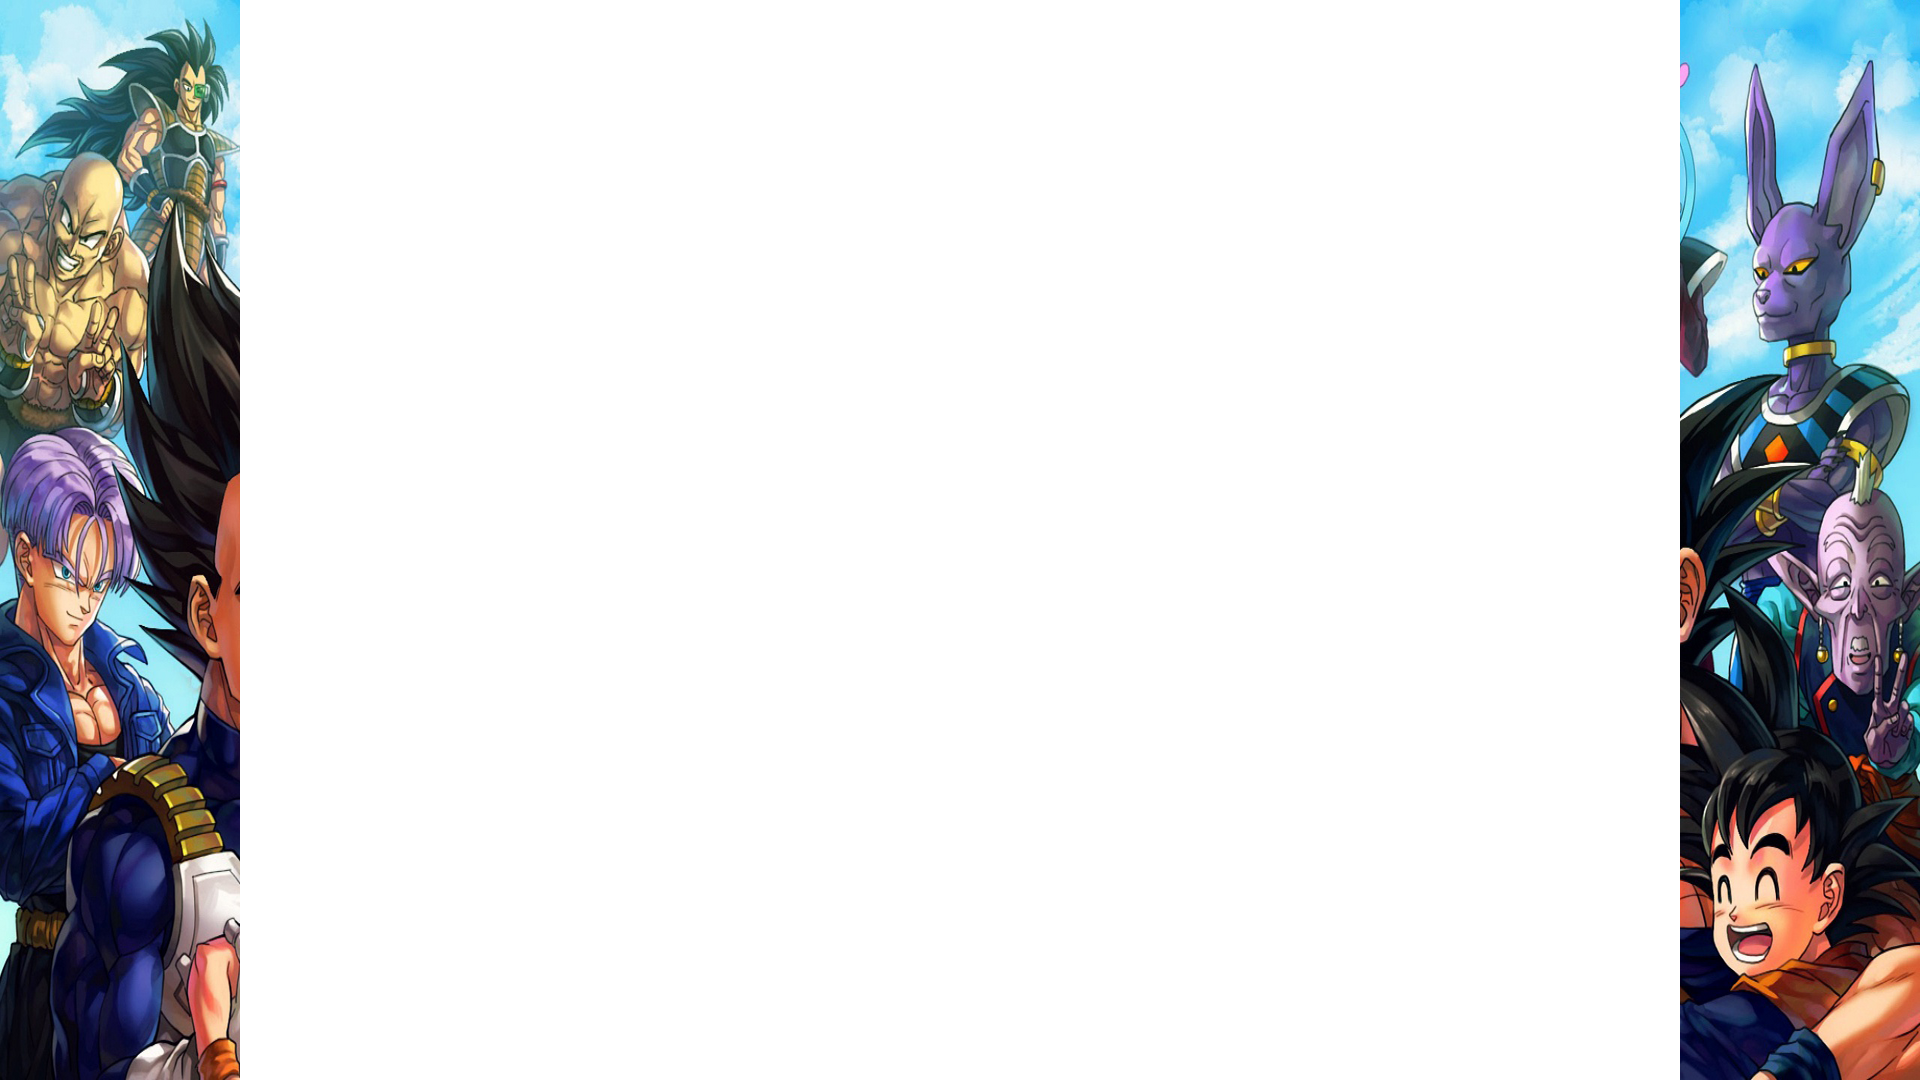
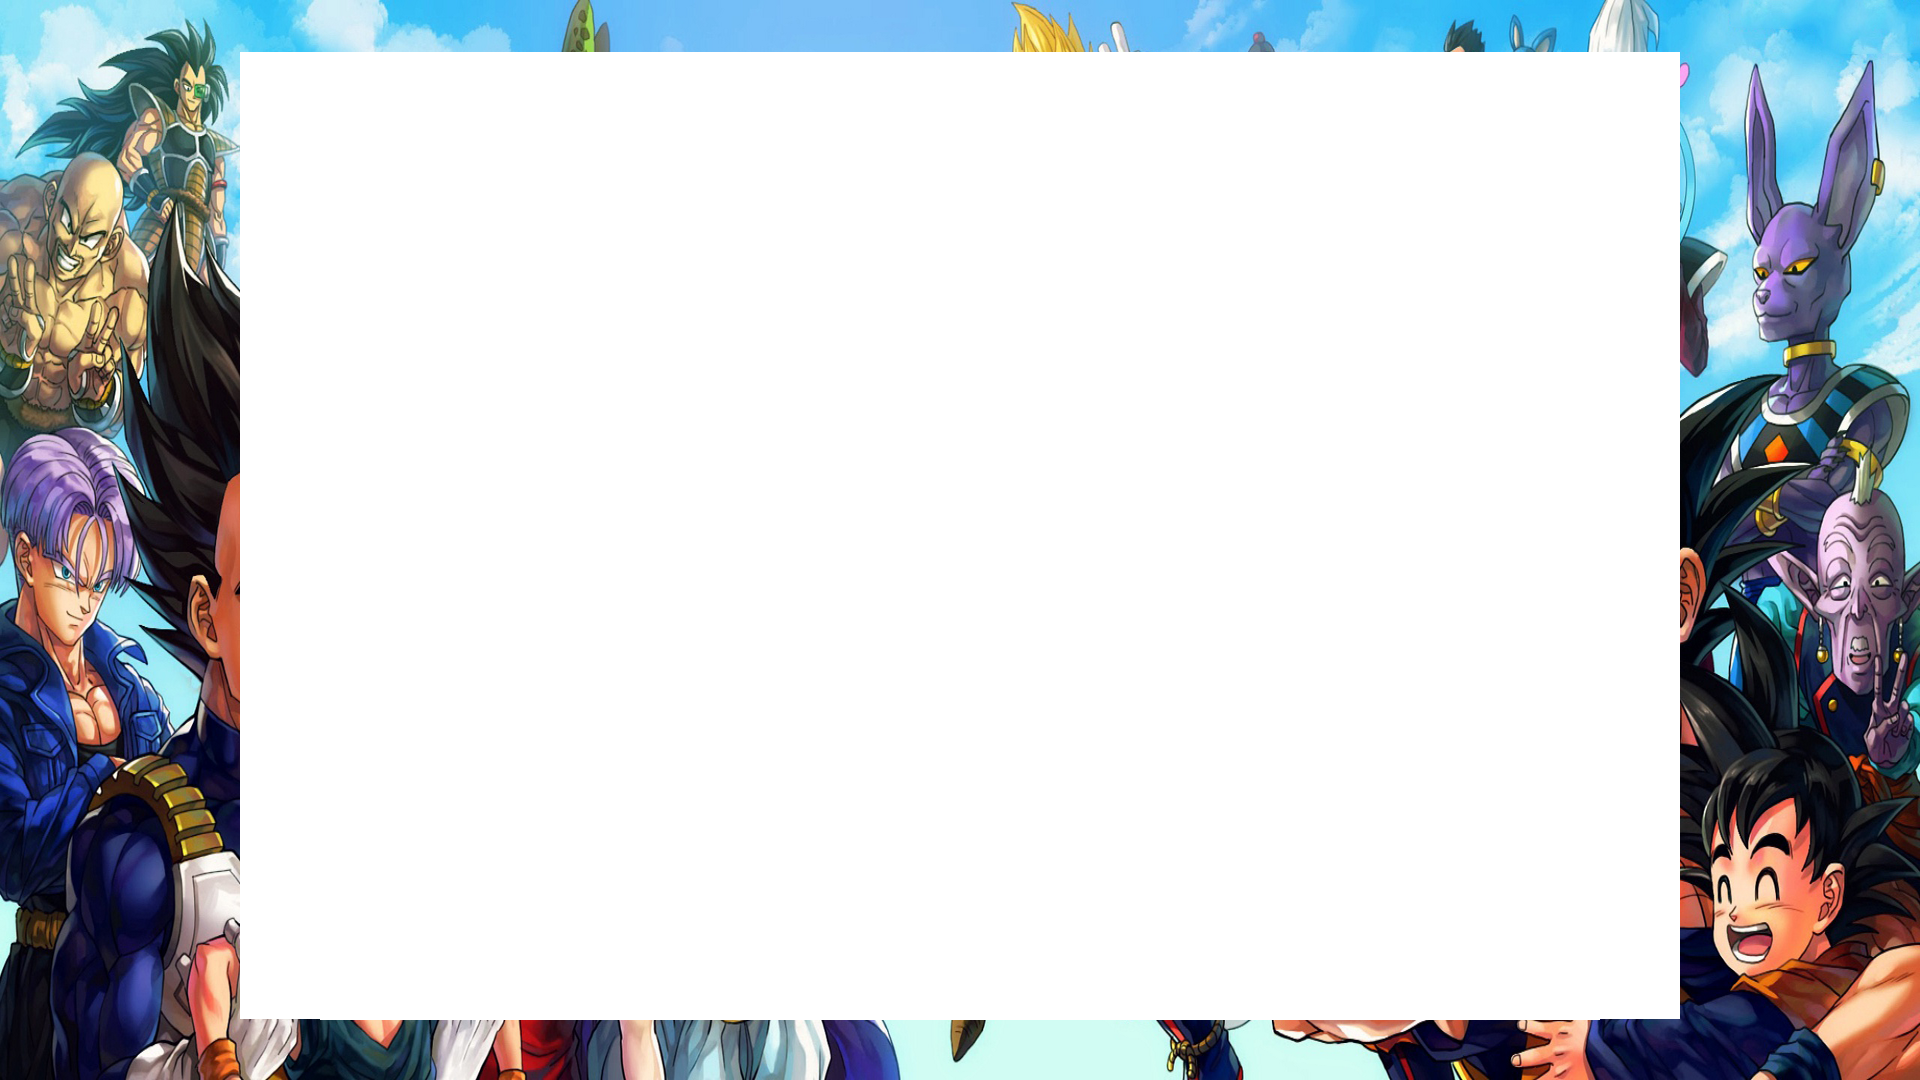
fix(overlays): fit PS1 hole to DuckStation's real output (1440x968+240+52)
PS1 video carries baked-in overscan bands, off-center vertically (52px
top, 60px bottom at 1080p). The full-height 4:3 hole left them visible;
the bezel now covers them exactly. JSON fallback synced, README gets a
dedicated PS1 recipe plus a one-liner to measure the frame from a
screenshot for any other setup.

Claude-Session: https://claude.ai/code/session_01WfxYQS1YHH92aZQ2GjNzeR

Changed region(s): [[0.125, 0.9167, 0.875, 1.0], [0.125, 0.0, 0.875, 0.0611]]

diff --git a/README.md b/README.md
@@ -257,7 +257,7 @@ magick your_image.png \
 | System | Native ratio | Hole `<W>x<H>` at `+<X>+<Y>` | Black bars |
 |--------|-------------|------------------------------|-----------|
 | GameCube / Wii (`dolphin`) | 4:3 | `1440x1080` at `+240+0` | 240px each side |
-| PlayStation 1 (`duckstation`) | 4:3 | `1440x1080` at `+240+0` | 240px each side |
+| PlayStation 1 (`duckstation`) | 4:3 minus PS1 overscan | `1440x968` at `+240+52` | 240px sides, 52px top, 60px bottom |
 | PlayStation 2 (`pcsx2`) | 4:3 | `1440x1080` at `+240+0` | 240px each side |
 | Nintendo 64 (`gopher64`) | 4:3 | `1440x1080` at `+240+0` | 240px each side |
 | Game Boy Advance (`mgba`) | 3:2 (240×160) | `1620x1080` at `+150+0` | 150px each side |
@@ -267,14 +267,38 @@ magick your_image.png \
 > **16:9 systems** (PS3, PS4, PSP, Wii U, Switch, Xbox 360) fill the entire screen — no black bars, no overlay needed.
 > Keep `config/overlays.json` `hole` values in sync with the PNG — the JSON hole is the fallback frame used when the PNG is missing.
 
-**Example — PlayStation 1 / 2 / Nintendo 64 / GameCube (4:3):**
+**Example — PlayStation 2 / Nintendo 64 / GameCube (full-height 4:3):**
 ```bash
 magick artwork.png \
   -background "rgb(0,0,0)" -flatten \
   -resize 1920x1080! \
   \( -size 1440x1080 xc:black \) -geometry +240+0 -compose DstOut -composite \
-  assets/overlays/duckstation.png     # or pcsx2.png / gopher64.png / dolphin.png
+  assets/overlays/pcsx2.png     # or gopher64.png / dolphin.png
 ```
+
+**Example — PlayStation 1 (DuckStation):**
+
+PS1 video output carries its own black overscan bands (slightly off-center: more at
+the bottom than the top), so the hole is a bit shorter than full 4:3 and shifted down:
+
+```bash
+magick artwork.png \
+  -background "rgb(0,0,0)" -flatten \
+  -resize 1920x1080! \
+  \( -size 1440x968 xc:black \) -geometry +240+52 -compose DstOut -composite \
+  assets/overlays/duckstation.png
+```
+
+Measured with `AspectRatio = 4:3` in DuckStation. If your games show a different frame,
+measure it yourself: take a screenshot in game, then
+
+```bash
+magick screenshot.png -resize 1920x1080! -crop 1x1080+960+0 +repage \
+  -colorspace gray -threshold 10% -negate -format "%@" info:
+```
+
+prints the black band geometry on the centre column — use the bright area's `HxW+X+Y`
+as your hole. Remember to mirror the value into the `hole` of `config/overlays.json`.
 
 **Example — Game Boy Advance (3:2):**
 ```bash
